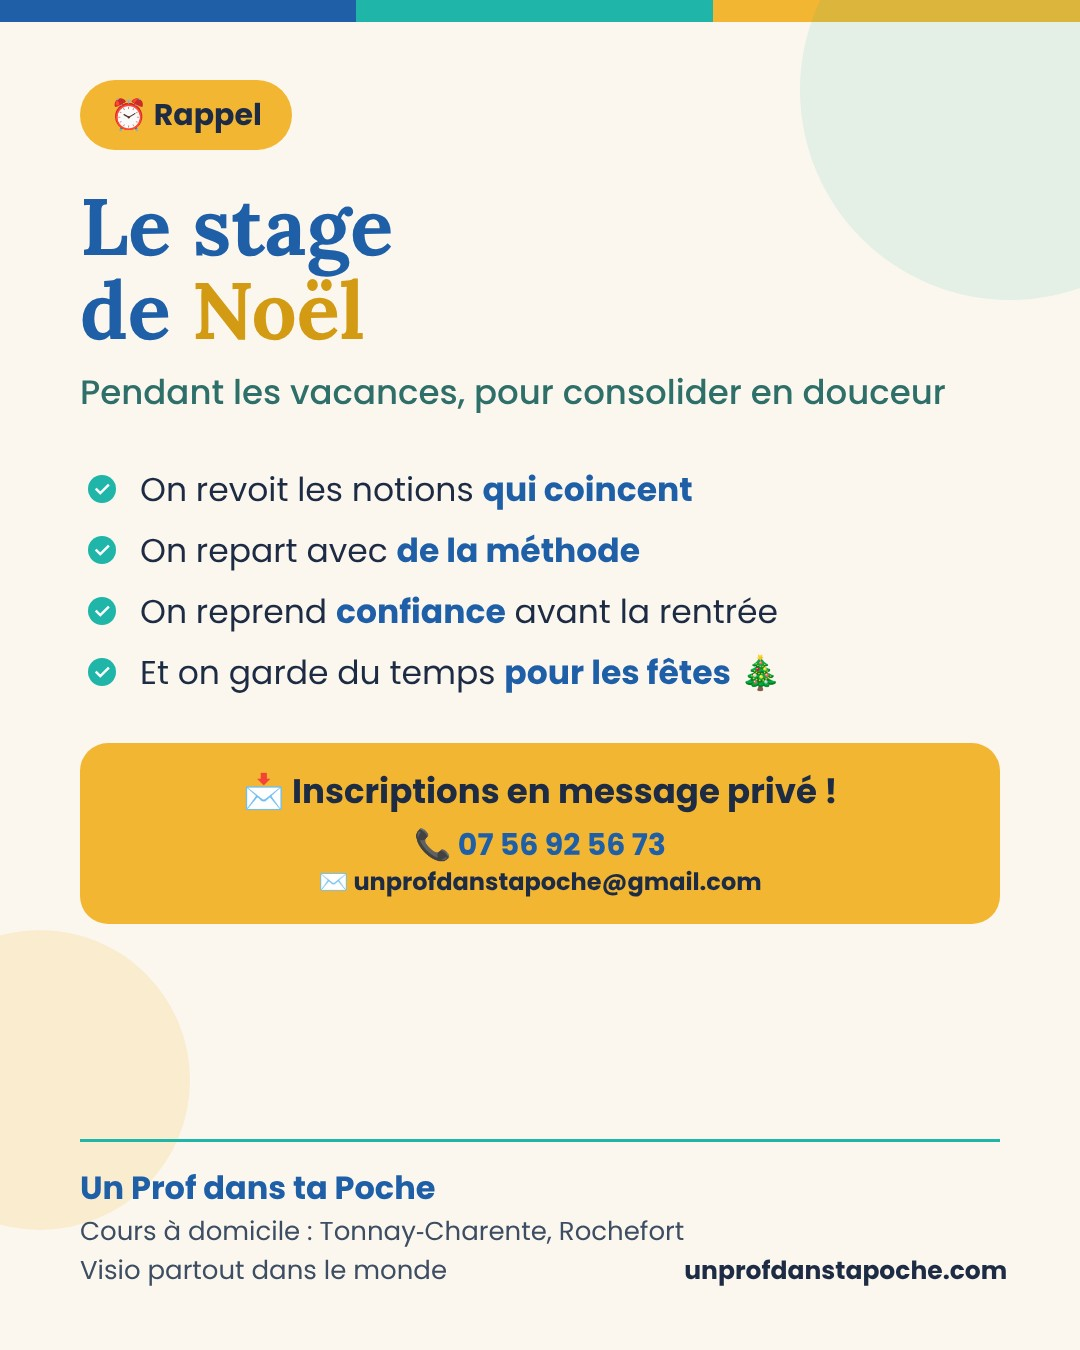
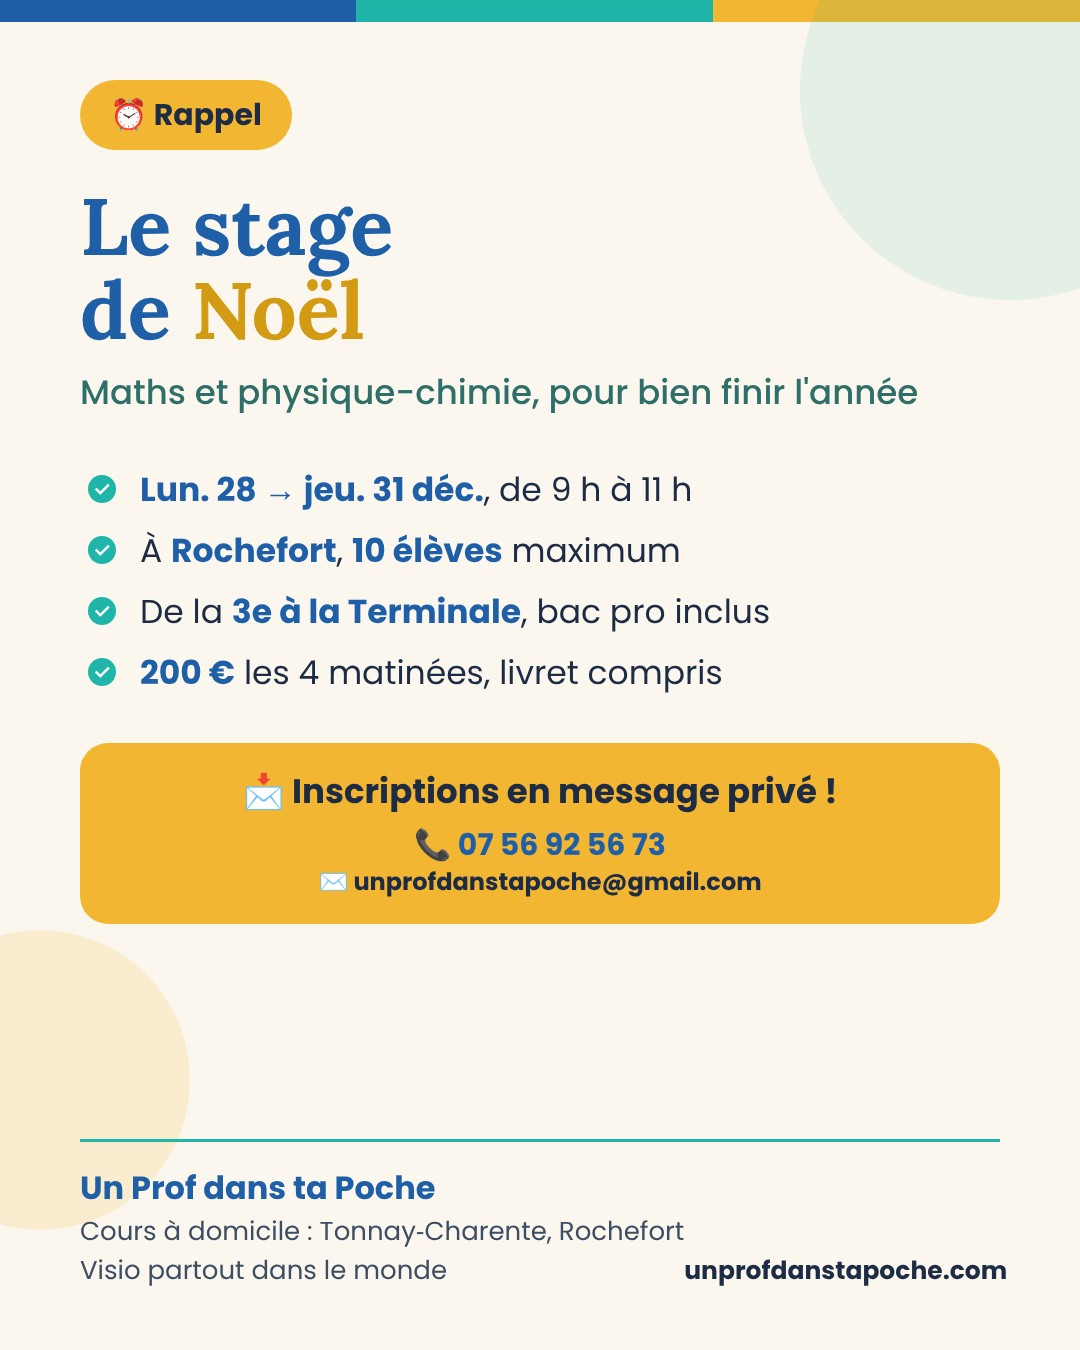
Facebook : infos réelles du stage de Noël (28/11 et 16/12)
Claude-Session: https://claude.ai/code/session_01VCse4nxbVLZqSdwNt5Tt5L

Changed region(s): [[0.1222, 0.3422, 0.7333, 0.5289], [0.0611, 0.28, 0.8861, 0.3111]]

diff --git a/outils/facebook/decembre_2026.py b/outils/facebook/decembre_2026.py
@@ -116,18 +116,21 @@ posts = [
              "Au programme : on revoit l'essentiel, on s'entraîne sur des sujets types et on gagne en méthode. 📐\n\n"
              "Petit budget pour petit coef : 7,80 € la séance d'une heure. "
              "Pas besoin d'adorer les maths pour venir, juste l'envie de progresser ! 💪" + SIGN_ATELIERS},
- {"date": "2026-12-16", "nom": "pub-stages-vacances", "type": "pub", "tag": "📣 Pendant les vacances",
-  "titre": "Les vacances,<br>pour <span>consolider</span>", "sous_titre": "Des stages pendant les vacances scolaires",
-  "points": ["On revoit les notions <b>qui coincent</b>",
-             "On repart avec <b>de la méthode</b>",
-             "On reprend <b>confiance</b> avant la rentrée",
-             "À domicile ou <b>en visio</b>"],
-  "appel": "📅 Infos et disponibilités en message privé !",
-  "legende": "🎄 Les vacances de Noël approchent ! Un moment pour souffler… et pourquoi pas pour consolider en douceur ?\n\n"
-             "Je propose des stages pendant les vacances scolaires : quelques séances pour reprendre une notion qui coince, "
-             "retrouver de la méthode et repartir confiant à la rentrée. ✨\n\n"
-             "Tout se fait à votre rythme, à domicile ou en visio, en gardant du temps pour profiter des fêtes ! "
-             "Écrivez-moi pour connaître mes disponibilités. 😊" + SIGNATURE},
+ {"date": "2026-12-16", "nom": "pub-stage-noel", "type": "pub", "tag": "📣 Pendant les vacances",
+  "titre": "Le stage<br>de <span>Noël</span>", "sous_titre": "Les vacances, pour consolider en douceur",
+  "points": ["<b>Lun. 28 → jeu. 31 déc.</b>, de 9 h à 11 h",
+             "À <b>Rochefort</b>, <b>10 élèves</b> maximum",
+             "De la <b>3e à la Terminale</b>, bac pro inclus",
+             "<b>200 €</b> les 4 matinées, livret compris"],
+  "appel": "📩 Inscriptions en message privé !",
+  "legende": "🎄 Les vacances de Noël approchent ! Un moment pour souffler… et pour consolider en douceur.\n\n"
+             "Pendant le stage de Noël, chaque élève suit un programme construit à partir de ses réponses au questionnaire d'inscription, "
+             "avec son livret personnel et des ateliers en autonomie. On reprend ce qui coince et on repart confiant pour 2027. ✨\n\n"
+             "📅 Du lundi 28 au jeudi 31 décembre, de 9 h à 11 h (8 h de stage)\n"
+             "📍 À Rochefort, 10 élèves maximum\n"
+             "🎓 De la 3e à la Terminale, bac pro inclus\n"
+             "💶 200 € les 4 matinées, livret personnel compris (paiement à l'inscription)\n\n"
+             "📩 Inscriptions en message privé !" + SIGNATURE},
  {"date": "2026-12-23", "nom": "pub-bulletin-trimestre", "type": "pub", "tag": "📣 Parents, pas de panique",
   "titre": "Le bulletin<br>du <span>1er trimestre</span>…", "sous_titre": "…n'est qu'un point de départ !",
   "points": ["On lit le bulletin <b>ensemble</b>, sans dramatiser",

diff --git a/outils/facebook/novembre_2026.py b/outils/facebook/novembre_2026.py
@@ -239,18 +239,21 @@ posts.append({"date": "2026-11-25", "nom": "merci-22-eleves", "type": "outil", "
              "Chaque séance est une chance de comprendre, de progresser et de reprendre confiance. "
              "Merci à toutes les familles qui font vivre cette belle aventure ! 🙏" + SIGNATURE})
 posts.append({"date": "2026-11-28", "nom": "rappel-stage-noel", "type": "pub", "tag": "⏰ Rappel",
-  "titre": "Le stage<br>de <span>Noël</span>", "sous_titre": "Pendant les vacances, pour consolider en douceur",
-  "points": ["On revoit les notions <b>qui coincent</b>",
-             "On repart avec <b>de la méthode</b>",
-             "On reprend <b>confiance</b> avant la rentrée",
-             "Et on garde du temps <b>pour les fêtes</b> 🎄"],
+  "titre": "Le stage<br>de <span>Noël</span>", "sous_titre": "Maths et physique-chimie, pour bien finir l'année",
+  "points": ["<b>Lun. 28 → jeu. 31 déc.</b>, de 9 h à 11 h",
+             "À <b>Rochefort</b>, <b>10 élèves</b> maximum",
+             "De la <b>3e à la Terminale</b>, bac pro inclus",
+             "<b>200 €</b> les 4 matinées, livret compris"],
   "appel": "📩 Inscriptions en message privé !",
   "legende": "⏰ Petit rappel : le stage de Noël approche ! 🎄\n\n"
-             "Les vacances, c'est le bon moment pour souffler… et pour consolider en douceur. "
-             "Pendant le stage, on revoit les notions qui coincent, on reprend de la méthode "
-             "et on repart confiant pour la rentrée de janvier. ✨\n\n"
-             "Le tout dans la bonne humeur, en gardant bien sûr du temps pour profiter des fêtes !\n\n"
-             "📩 Inscriptions en message privé : écrivez-moi pour connaître les dates et réserver votre place." + SIGNATURE})
+             "4 matinées pour consolider les maths et la physique-chimie vues en classe, et apprendre à travailler seul, avec méthode. "
+             "À l'inscription, un questionnaire me permet de construire le programme de chaque élève, "
+             "et chacun reçoit son livret personnel : fiches méthode, exercices progressifs et corrigés. ✨\n\n"
+             "📅 Du lundi 28 au jeudi 31 décembre, de 9 h à 11 h (8 h de stage)\n"
+             "📍 À Rochefort, 10 élèves maximum\n"
+             "🎓 De la 3e à la Terminale, bac pro inclus\n"
+             "💶 200 € les 4 matinées, livret personnel compris (paiement à l'inscription)\n\n"
+             "📩 Inscriptions en message privé, les places sont limitées !" + SIGNATURE})
 posts.sort(key=lambda p: p["date"])
 
 racine = pathlib.Path(__file__).resolve().parents[2]

diff --git a/outils/facebook/LIGNE-FACEBOOK.md b/outils/facebook/LIGNE-FACEBOOK.md
@@ -12,6 +12,7 @@ Pied de page fixe : cours à domicile Tonnay-Charente, Rochefort · visio partou
 ## Rythme
 - **Mercredi — « Ta pub »** (type `pub`) : une offre par semaine, en rotation : soutien maths et physique-chimie 6e–Terminale (bac pro compris) ; primaire CP–CM2 par le jeu et le matériel Montessori ; « votre enfant bloque ? » (confiance, bases) ; **ateliers maths du dimanche en visio** (Google Meet, 7,80 € la séance d'1 h, depuis le 8/11/2026 : 10 h–11 h CAP, 13 h–14 h épreuve du bac pro, 18 h–19 h épreuve anticipée de maths de 1re ; slogan « Petit budget pour petit coef ! » ; inscription en MP) ; cours en visio pour les familles éloignées ou à l'étranger ; stages pendant les vacances scolaires (sans date ni prix inventés). Appel à l'action : message privé ; le gabarit ajoute automatiquement téléphone et e-mail dans l'encadré jaune des pubs.
 - **Samedi — « Coulisse de prof »** (type `outil`) : présenter un outil ou une pratique pédagogique de Séverine, avec une illustration SVG dessinée. Idées déjà utilisables : soroban (boulier japonais), calculatrice Numworks, escape games pédagogiques qu'elle crée, jeu de calcul mental « CALCULO' DÉFI ! », barrettes de perles colorées Montessori, timbres Montessori, jeux de révision, fiches de révision, partir des passions de l'élève pour reformuler. **Ne jamais inventer d'histoire d'élève** : les récits d'accompagnement viennent uniquement de faits donnés par Séverine (anonymisés).
+- **Stage de Noël 2026** (flyer de Séverine) : du lundi 28 au jeudi 31 décembre, 9 h–11 h (8 h), à Rochefort, 3e à Terminale (bac pro inclus), 10 élèves max, 200 € les 4 matinées livret compris, paiement à l'inscription ; questionnaire à l'inscription, livret personnel, ateliers en autonomie.
 - **Dimanche — « La phrase de la semaine »** (type `citation`) : soit une citation dont l'auteur est **certain** (sinon s'abstenir), soit une phrase de Séverine signée « Séverine, Un Prof dans ta Poche » dans son style (encourageant : « tu en es capable », ne jamais rien lâcher, l'erreur fait partie de l'apprentissage). Alterner.
 
 ## Légendes
@@ -26,5 +27,5 @@ Page récap générée par `python3 outils/facebook/recap.py facebook/AAAA-MM.js
 Images dans `facebook/<date>/<nom>.jpg`, contenu dans `facebook/AAAA-MM.json`. Page récap (artifact) : visuel, jour, type, légende avec bouton « Copier la légende », lien « Ouvrir l'image » (raw GitHub fixé sur le commit) et mode d'emploi Meta Business Suite (mercredi ~12 h, week-end ~10 h).
 
 ## Historique
-- 2026-11 : pubs (ateliers du dimanche : annonce 4/11 + rappel vendredi 6/11, primaire par le jeu, « ça bloque », soutien 6e–Tale) ; coulisses (perles dorées, cartachari, chaîne de 100, partir du vécu – histoire réelle du pistolet) ; phrases (Montessori « Aide-moi à faire seul », « L'erreur est une étape », Mandela, « Être pédagogue… »). Modifié le 25/11 à la demande de Séverine : bilan « 22 élèves chaque semaine en novembre (2 élémentaire, 10 collégiens, 10 lycéens), merci » le 25/11 et rappel du stage de Noël le 28/11 (lien d'inscription, dates et prix à venir) à la place de la pub soutien et de la coulisse « partir du vécu ».
-- 2026-12 : pubs (cours en visio pour familles éloignées/étranger, ateliers du dimanche – focus épreuve anticipée 1re puis focus CAP/bac pro, stages vacances, bulletin du 1er trimestre) ; coulisses (soroban, timbres Montessori, calculatrice Numworks, barrettes de perles colorées) ; phrases (Montaigne « Plutôt la tête bien faite que bien pleine », « Tu en es capable… », La Fontaine « Rien ne sert de courir… », « Ne lâche rien : chaque petit pas compte »).
+- 2026-11 : pubs (ateliers du dimanche : annonce 4/11 + rappel vendredi 6/11, primaire par le jeu, « ça bloque », soutien 6e–Tale) ; coulisses (perles dorées, cartachari, chaîne de 100, partir du vécu – histoire réelle du pistolet) ; phrases (Montessori « Aide-moi à faire seul », « L'erreur est une étape », Mandela, « Être pédagogue… »). Modifié le 25/11 à la demande de Séverine : bilan « 22 élèves chaque semaine en novembre (2 élémentaire, 10 collégiens, 10 lycéens), merci » le 25/11 et rappel du stage de Noël le 28/11 (infos du flyer de Séverine : lun. 28 → jeu. 31/12, 9 h–11 h, Rochefort, 3e–Tale bac pro inclus, 10 élèves max, 200 € livret compris ; lien d'inscription à venir, en attendant MP) à la place de la pub soutien et de la coulisse « partir du vécu ».
+- 2026-12 : pubs (cours en visio pour familles éloignées/étranger, ateliers du dimanche – focus épreuve anticipée 1re puis focus CAP/bac pro, stage de Noël (mêmes infos, 16/12), bulletin du 1er trimestre) ; coulisses (soroban, timbres Montessori, calculatrice Numworks, barrettes de perles colorées) ; phrases (Montaigne « Plutôt la tête bien faite que bien pleine », « Tu en es capable… », La Fontaine « Rien ne sert de courir… », « Ne lâche rien : chaque petit pas compte »).
